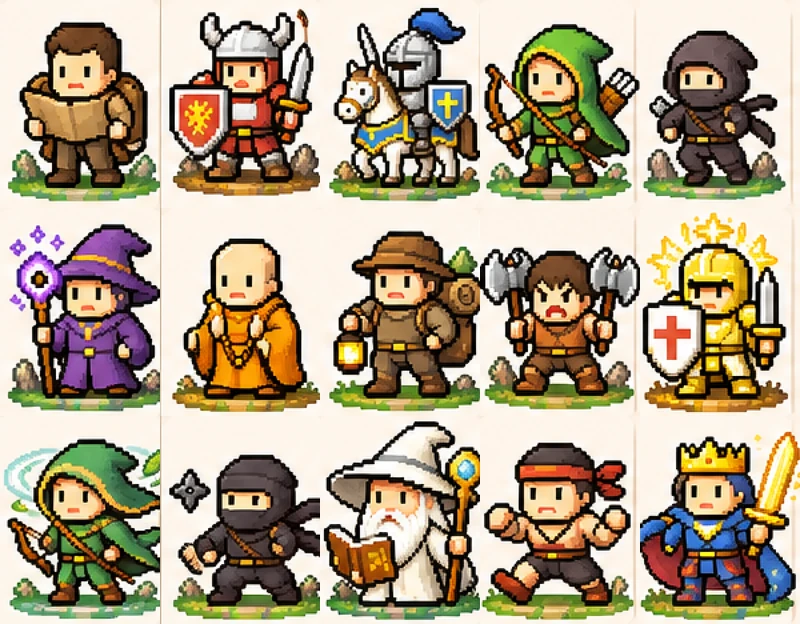
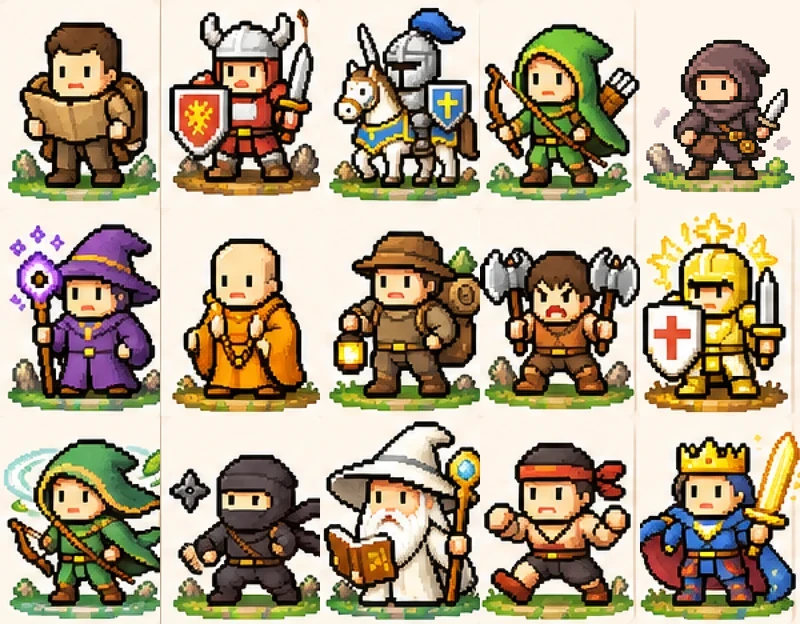
preview: 新盜賊
Claude-Session: https://claude.ai/code/session_018zvDif4TJuQP2h9fyWDdc7

Changed region(s): [[0.7812, 0.0304, 1.0, 0.3349]]

diff --git a/preview/index.html b/preview/index.html
@@ -2,7 +2,7 @@
 <html lang="zh-Hant" class="own-host">
 <head>
 <meta charset="utf-8">
-<meta http-equiv="Content-Security-Policy" content="default-src 'self'; script-src 'sha256-/wgCu4dYgj6TaG/ZgWIbx75eEsjWNLmdEWIQvK7XRsI='; style-src 'self' 'unsafe-inline'; img-src 'self' data: blob:; connect-src 'self'; worker-src 'self'; manifest-src 'self'; object-src 'none'; base-uri 'none'; form-action 'none'">
+<meta http-equiv="Content-Security-Policy" content="default-src 'self'; script-src 'sha256-mfg5J4bjLR3NLp8CuCPZjEuKHicD4o/oKte+EO0ISZM='; style-src 'self' 'unsafe-inline'; img-src 'self' data: blob:; connect-src 'self'; worker-src 'self'; manifest-src 'self'; object-src 'none'; base-uri 'none'; form-action 'none'">
 <meta name="referrer" content="no-referrer">
 <meta name="viewport" content="width=device-width, initial-scale=1, viewport-fit=cover">
 <meta name="apple-mobile-web-app-capable" content="yes">
@@ -2403,7 +2403,7 @@ function questWeeks(s,q){var h=byId(q.h),t=todayKey(),met=0,now=null;if(!h)retur
 function seasonWeek(s){return Math.min(SEASON_W,Math.floor(diffDays(todayKey(),s.start)/7)+1);}
 function rpgTitles(){return (rpgData().seasons||[]).filter(function(s){return seasonEnd(s)<todayKey()&&s.q.length&&questWeeks(s,s.q[0]).met>=6;}).map(function(s){return s.name+'完成者';});}
 /* character art: one sprite sheet (rpg.webp, 5 × 3 cells, 160 × 208 each), order = RPG_ORDER */
-var RPG_IMG='../rpg.webp?v=3',RPG_ORDER=['base','war','kni','ran','rog','mag','mon','adv','ber','pal','wind','nin','sag','fist','hero'];
+var RPG_IMG='../rpg.webp?v=4',RPG_ORDER=['base','war','kni','ran','rog','mag','mon','adv','ber','pal','wind','nin','sag','fist','hero'];
 function rpgFig(c,sz){sz=sz||120;var i=Math.max(0,RPG_ORDER.indexOf(c)),h=Math.round(sz*208/160);
   return '<span class="rspr" role="img" aria-label="'+(CLS[c]||'')+'" style="width:'+sz+'px;height:'+h+'px;background-image:url('+RPG_IMG+');background-size:'+(sz*5)+'px '+(h*3)+'px;background-position:-'+((i%5)*sz)+'px -'+(Math.floor(i/5)*h)+'px"></span>';}
 function rpgRadar(P,W){W=W||260;var M=1,cx=W/2,cy=W/2-2,R=W*0.33,s='';ATTR.forEach(function(a){M=Math.max(M,P[a[0]]);});
